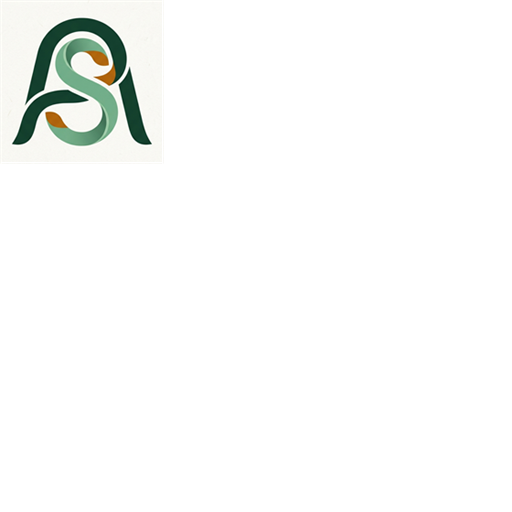
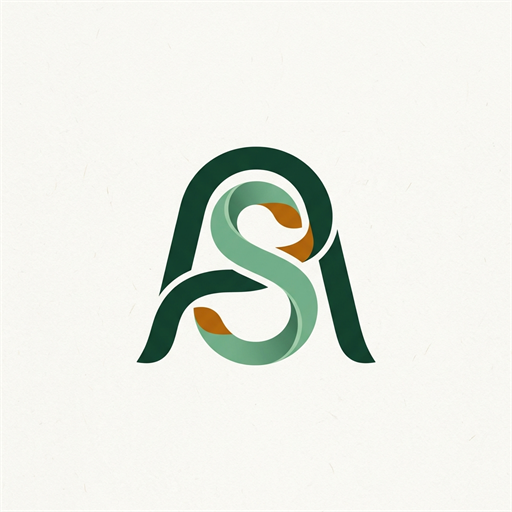
fix(branding): use full uncropped AS monogram across navbar, footer, mobile drawer, and auth screens

Changed region(s): [[0.25, 0.2812, 0.75, 0.7188], [0.0312, 0.0312, 0.3125, 0.2812]]

diff --git a/apps/web/src/components/shared/AlongsideLogo.tsx b/apps/web/src/components/shared/AlongsideLogo.tsx
@@ -18,11 +18,11 @@ export interface AlongsideLogoProps {
 }
 
 const SIZE_MAP = {
-  xs: { box: 'h-6 w-6', px: 24, text: 'text-base', sub: 'text-[8px]' },
-  sm: { box: 'h-8 w-8', px: 32, text: 'text-lg', sub: 'text-[9px]' },
-  md: { box: 'h-9 w-9', px: 36, text: 'text-xl sm:text-2xl', sub: 'text-[9px]' },
-  lg: { box: 'h-12 w-12', px: 48, text: 'text-2xl sm:text-3xl', sub: 'text-[10px]' },
-  xl: { box: 'h-16 w-16', px: 64, text: 'text-3xl sm:text-4xl', sub: 'text-xs' },
+  xs: { box: 'h-7 w-7', px: 28, text: 'text-base', sub: 'text-[8px]' },
+  sm: { box: 'h-9 w-9', px: 36, text: 'text-lg', sub: 'text-[9px]' },
+  md: { box: 'h-11 w-11 sm:h-12 sm:w-12', px: 48, text: 'text-xl sm:text-2xl', sub: 'text-[9px]' },
+  lg: { box: 'h-14 w-14 sm:h-16 sm:w-16', px: 64, text: 'text-2xl sm:text-3xl', sub: 'text-[10px]' },
+  xl: { box: 'h-20 w-20', px: 80, text: 'text-3xl sm:text-4xl', sub: 'text-xs' },
 };
 
 export function AlongsideLogo({
@@ -36,20 +36,21 @@ export function AlongsideLogo({
   const config = SIZE_MAP[size];
 
   return (
-    <div className={cn('flex items-center gap-2.5 shrink-0', className)}>
+    <div className={cn('flex items-center gap-2.5 sm:gap-3 shrink-0', className)}>
       <div
         className={cn(
-          'relative flex items-center justify-center overflow-hidden rounded-[8px] bg-[#FBFBF9] shadow-xs border border-[#E3E3DC] transition-transform group-hover:scale-105',
+          'relative flex items-center justify-center shrink-0 transition-transform group-hover:scale-105',
           config.box
         )}
       >
         <Image
-          src="/brand/alongside-emblem-128.png"
+          src="/brand/alongside-logo-full-256.png"
           alt="AlongSide Fluid AS Monogram"
           width={config.px}
           height={config.px}
-          className="h-full w-full object-cover"
+          className="h-full w-full object-contain rounded-[6px]"
           priority={priority}
+          unoptimized
         />
       </div>
       {showWordmark && (

diff --git a/apps/web/src/components/shared/MobileNav.tsx b/apps/web/src/components/shared/MobileNav.tsx
@@ -23,6 +23,7 @@ import {
 import { useAuth } from '@/hooks/useAuth';
 import { ChildSelector } from '@/components/shared/ChildSelector';
 import { useChildContextStore, ACTIVE_CHILD_STORAGE_KEY } from '@/stores/useChildContextStore';
+import { AlongsideLogo } from '@/components/shared/AlongsideLogo';
 import { cn } from '@/lib/utils';
 
 export interface NavItem {
@@ -163,14 +164,7 @@ export function MobileNav({ className }: MobileNavProps) {
           <div className="relative z-10 rounded-t-[16px] border-t border-[#E3E3DC] bg-white p-5 shadow-2xl space-y-4 max-h-[85vh] overflow-y-auto animate-in slide-in-from-bottom duration-200">
             {/* Drawer Header */}
             <div className="flex items-center justify-between border-b border-[#E3E3DC] pb-3">
-              <div className="flex items-center gap-2">
-                <div className="flex h-7 w-7 items-center justify-center rounded-[4px] bg-[#143D2B] text-white shadow-2xs">
-                  <Shield className="h-4 w-4" />
-                </div>
-                <h3 className="font-serif font-bold text-[#111413] text-sm">
-                  AlongSide Hubs
-                </h3>
-              </div>
+              <AlongsideLogo size="sm" showWordmark={true} subtitle="Platform Hubs" />
               <button
                 type="button"
                 onClick={() => setMoreDrawerOpen(false)}

diff --git a/apps/web/test/alongsideLogo.test.tsx b/apps/web/test/alongsideLogo.test.tsx
@@ -7,7 +7,7 @@ describe('AlongsideLogo Component', () => {
   it('renders the emblem image and editorial wordmark by default', () => {
     const html = renderToStaticMarkup(<AlongsideLogo />);
 
-    expect(html).toContain('alongside-emblem-128.png');
+    expect(html).toContain('alongside-logo-full-256.png');
     expect(html).toContain('alt="AlongSide Fluid AS Monogram"');
     expect(html).toContain('AlongSide');
   });
@@ -15,7 +15,7 @@ describe('AlongsideLogo Component', () => {
   it('hides the wordmark when showWordmark is false', () => {
     const html = renderToStaticMarkup(<AlongsideLogo showWordmark={false} />);
 
-    expect(html).toContain('alongside-emblem-128.png');
+    expect(html).toContain('alongside-logo-full-256.png');
     expect(html).not.toContain('>AlongSide<');
   });
 
@@ -28,9 +28,9 @@ describe('AlongsideLogo Component', () => {
 
   it('applies different size presets without errors', () => {
     const xsHtml = renderToStaticMarkup(<AlongsideLogo size="xs" />);
-    expect(xsHtml).toContain('h-6 w-6');
+    expect(xsHtml).toContain('h-7 w-7');
 
     const lgHtml = renderToStaticMarkup(<AlongsideLogo size="lg" />);
-    expect(lgHtml).toContain('h-12 w-12');
+    expect(lgHtml).toContain('h-14 w-14');
   });
 });

diff --git a/apps/web/src/components/auth/RegisterForm.tsx b/apps/web/src/components/auth/RegisterForm.tsx
@@ -12,6 +12,7 @@ import { Card, CardHeader, CardTitle, CardDescription, CardContent, CardFooter }
 import { useAuth } from "@/hooks/useAuth";
 import { ApiClientError } from "@/lib/api/client";
 import { AlertCircle, CheckCircle2, Loader2, ShieldCheck } from "lucide-react";
+import { AlongsideLogo } from "@/components/shared/AlongsideLogo";
 
 export function RegisterForm() {
   const router = useRouter();
@@ -52,6 +53,11 @@ export function RegisterForm() {
   return (
     <Card className="w-full max-w-md mx-auto shadow-sm border-[#E3E3DC] rounded-[10px] bg-white">
       <CardHeader className="space-y-1 text-center">
+        <div className="flex justify-center pb-2">
+          <Link href="/" aria-label="AlongSide Home">
+            <AlongsideLogo size="lg" showWordmark={false} />
+          </Link>
+        </div>
         <div className="mx-auto inline-flex items-center gap-1.5 rounded-full bg-[#EAF3EE] px-3 py-1 text-xs font-mono font-semibold text-[#143D2B] border border-[#143D2B]/20 mb-2">
           <ShieldCheck className="h-3.5 w-3.5 text-[#143D2B]" />
           7-DAY TRIAL • NO UPFRONT CHARGE

diff --git a/apps/web/src/components/auth/LoginForm.tsx b/apps/web/src/components/auth/LoginForm.tsx
@@ -12,6 +12,7 @@ import { Card, CardHeader, CardTitle, CardDescription, CardContent, CardFooter }
 import { useAuth } from "@/hooks/useAuth";
 import { ApiClientError } from "@/lib/api/client";
 import { AlertCircle, CheckCircle2, Loader2 } from "lucide-react";
+import { AlongsideLogo } from "@/components/shared/AlongsideLogo";
 
 export function LoginForm() {
   const router = useRouter();
@@ -53,6 +54,11 @@ export function LoginForm() {
   return (
     <Card className="w-full max-w-md mx-auto shadow-sm border-[#E3E3DC] rounded-[10px] bg-white">
       <CardHeader className="space-y-1 text-center">
+        <div className="flex justify-center pb-2">
+          <Link href="/" aria-label="AlongSide Home">
+            <AlongsideLogo size="lg" showWordmark={false} />
+          </Link>
+        </div>
         <CardTitle className="font-serif text-3xl font-bold tracking-tight text-[#111413]">
           Welcome back
         </CardTitle>

diff --git a/apps/web/src/components/shared/Footer.tsx b/apps/web/src/components/shared/Footer.tsx
@@ -9,7 +9,7 @@ export function Footer() {
         <div className="grid grid-cols-1 md:grid-cols-4 gap-8 mb-10">
           <div className="space-y-3 md:col-span-1">
             <Link href="/" className="inline-block group" aria-label="AlongSide Home">
-              <AlongsideLogo size="sm" />
+              <AlongsideLogo size="md" />
             </Link>
             <p className="text-sm text-[#494F4C] leading-relaxed">
               Replacing anxiety and conflict with calm developmental science,
